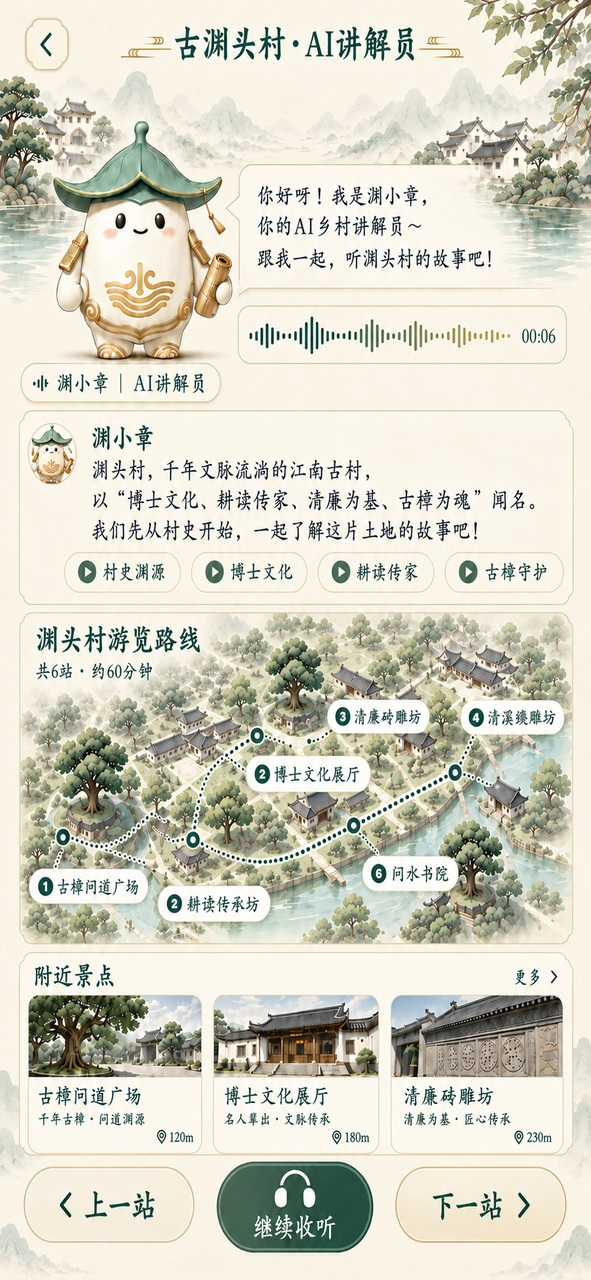
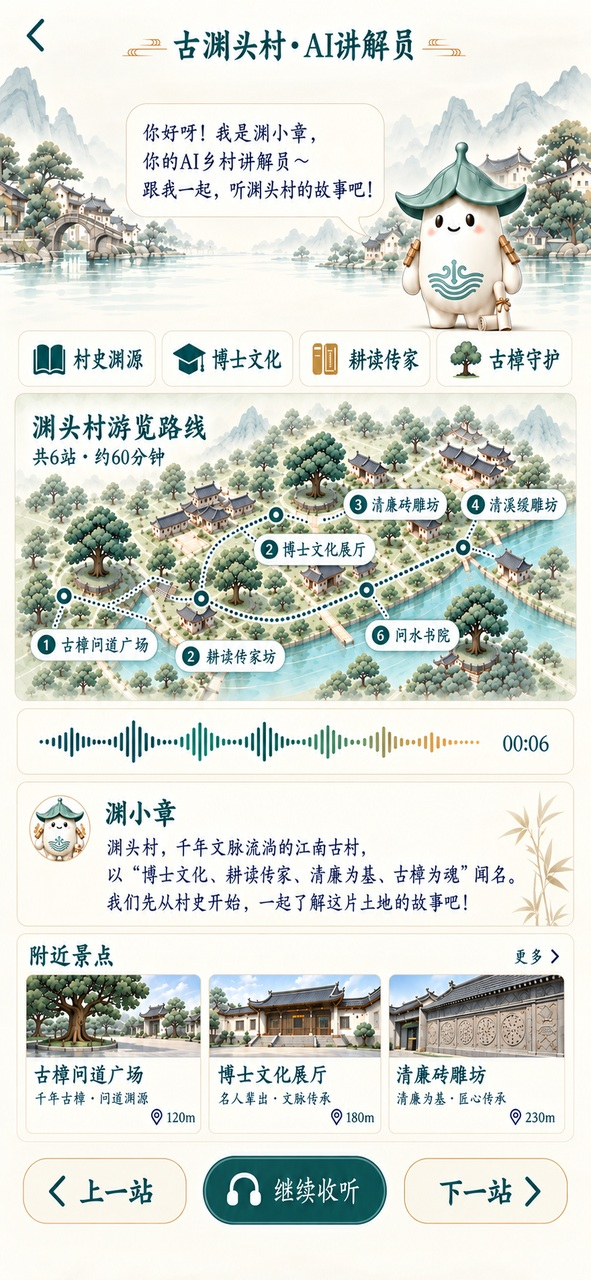
Add guide motion and station interactions

diff --git a/index.html b/index.html
@@ -6,7 +6,7 @@
     <meta name="theme-color" content="#f6f2e9" />
     <meta name="description" content="师说古渊文旅导览小程序首版交互原型" />
     <title>师说古渊</title>
-    <link rel="stylesheet" href="./styles.css?v=flow-8" />
+    <link rel="stylesheet" href="./styles.css?v=flow-9" />
   </head>
   <body>
     <main class="preview-layout">
@@ -14,7 +14,7 @@
         <img
           id="screen-image"
           class="screen-image"
-          src="./assets/login.jpg?v=flow-8"
+          src="./assets/login.jpg?v=flow-9"
           alt="师说古渊登录页"
           draggable="false"
         />
@@ -37,23 +37,23 @@
 
         <div class="hotspot-layer" data-screen-layer="home" aria-label="首页交互区域" hidden>
           <div class="home-landscape-motion" aria-hidden="true"></div>
-          <img class="home-ip home-ip-left" src="./assets/home-motion/ip-left.png?v=flow-8" alt="" aria-hidden="true" />
-          <img class="home-ip home-ip-right" src="./assets/home-motion/ip-right.png?v=flow-8" alt="" aria-hidden="true" />
+          <img class="home-ip home-ip-left" src="./assets/home-motion/ip-left.png?v=flow-9" alt="" aria-hidden="true" />
+          <img class="home-ip home-ip-right" src="./assets/home-motion/ip-right.png?v=flow-9" alt="" aria-hidden="true" />
           <span class="home-wave home-wave-left" aria-hidden="true"></span>
           <span class="home-wave home-wave-right" aria-hidden="true"></span>
-          <img class="home-bamboo" src="./assets/home-motion/bamboo.png?v=flow-8" alt="" aria-hidden="true" />
+          <img class="home-bamboo" src="./assets/home-motion/bamboo.png?v=flow-9" alt="" aria-hidden="true" />
           <div class="home-recommendations" aria-label="今日推荐风景">
-            <span><img src="./assets/home-motion/recommend-1.jpg?v=flow-8" alt="古桥流水" /></span>
-            <span><img src="./assets/home-motion/recommend-2.jpg?v=flow-8" alt="水乡漫游" /></span>
-            <span><img src="./assets/home-motion/recommend-3.jpg?v=flow-8" alt="清廉茶社" /></span>
-            <span><img src="./assets/home-motion/recommend-4.jpg?v=flow-8" alt="博士书房" /></span>
+            <span><img src="./assets/home-motion/recommend-1.jpg?v=flow-9" alt="古桥流水" /></span>
+            <span><img src="./assets/home-motion/recommend-2.jpg?v=flow-9" alt="水乡漫游" /></span>
+            <span><img src="./assets/home-motion/recommend-3.jpg?v=flow-9" alt="清廉茶社" /></span>
+            <span><img src="./assets/home-motion/recommend-4.jpg?v=flow-9" alt="博士书房" /></span>
           </div>
           <div class="home-events-slider" aria-label="近期活动，可左右滑动">
-            <img src="./assets/home-motion/event-1.jpg?v=flow-8" alt="古渊水上集市" />
-            <img src="./assets/home-motion/event-2.jpg?v=flow-8" alt="水稻制作体验" />
-            <img src="./assets/home-motion/event-3.jpg?v=flow-8" alt="清风茶会" />
-            <img src="./assets/home-motion/event-1.jpg?v=flow-8" alt="古渊水上集市加场" />
-            <img src="./assets/home-motion/event-2.jpg?v=flow-8" alt="水稻制作体验加场" />
+            <img src="./assets/home-motion/event-1.jpg?v=flow-9" alt="古渊水上集市" />
+            <img src="./assets/home-motion/event-2.jpg?v=flow-9" alt="水稻制作体验" />
+            <img src="./assets/home-motion/event-3.jpg?v=flow-9" alt="清风茶会" />
+            <img src="./assets/home-motion/event-1.jpg?v=flow-9" alt="古渊水上集市加场" />
+            <img src="./assets/home-motion/event-2.jpg?v=flow-9" alt="水稻制作体验加场" />
           </div>
           <button class="hotspot home-ai-chat" type="button" data-action="ai-guide-1" aria-label="与AI助手对话"></button>
           <button
@@ -67,6 +67,7 @@
         </div>
 
         <div class="hotspot-layer" data-screen-layer="mine" aria-label="我的页面交互区域" hidden>
+          <div class="mine-landscape-motion" aria-hidden="true"></div>
           <button class="hotspot mine-favorites" type="button" data-action="show-favorites" aria-label="查看收藏路线"></button>
           <button class="hotspot mine-ai-history" type="button" data-action="show-ai-history" aria-label="查看AI导览记录"></button>
           <button class="hotspot mine-home-tab" type="button" data-action="home" aria-label="返回首页"></button>
@@ -75,6 +76,15 @@
         </div>
 
         <div class="hotspot-layer" data-screen-layer="culture" aria-label="文化研学线交互区域" hidden>
+          <div class="guide-scenery-motion" aria-hidden="true"></div>
+          <img class="guide-ip guide-ip-top" src="./assets/guide-motion/culture-ip-top.png?v=flow-9" alt="" aria-hidden="true" />
+          <img class="guide-ip guide-ip-bottom" src="./assets/guide-motion/culture-ip-bottom.png?v=flow-9" alt="" aria-hidden="true" />
+          <div class="map-stations map-stations-culture" aria-label="文化研学线地图站点">
+            <button style="--x:8%;--y:78%">1 入口牌坊</button><button style="--x:21%;--y:55%">2 清廉茶社</button><button style="--x:40%;--y:34%">3 水稻工坊</button><button style="--x:57%;--y:12%">4 博士书房</button><button style="--x:67%;--y:29%">5 文创小集</button><button style="--x:58%;--y:65%">7 书卷巷</button><button style="--x:82%;--y:53%">8 叶氏宗祠</button>
+          </div>
+          <div class="guide-stops-slider" aria-label="文化研学线路线站点，可左右滑动">
+            <img src="./assets/guide-motion/culture-stop-1.jpg?v=flow-9" alt="入口牌坊" /><img src="./assets/guide-motion/culture-stop-2.jpg?v=flow-9" alt="清廉茶社" /><img src="./assets/guide-motion/culture-stop-3.jpg?v=flow-9" alt="水稻工坊" /><img src="./assets/guide-motion/culture-stop-4.jpg?v=flow-9" alt="博士书房" /><img src="./assets/guide-motion/culture-stop-2.jpg?v=flow-9" alt="文创小集" /><img src="./assets/guide-motion/culture-stop-3.jpg?v=flow-9" alt="书卷巷" />
+          </div>
           <button
             class="hotspot guide-back"
             type="button"
@@ -104,6 +114,15 @@
         </div>
 
         <div class="hotspot-layer" data-screen-layer="leisure" aria-label="休闲体验线交互区域" hidden>
+          <div class="guide-scenery-motion" aria-hidden="true"></div>
+          <img class="guide-ip guide-ip-top" src="./assets/guide-motion/leisure-ip-top.png?v=flow-9" alt="" aria-hidden="true" />
+          <img class="guide-ip guide-ip-bottom" src="./assets/guide-motion/leisure-ip-bottom.png?v=flow-9" alt="" aria-hidden="true" />
+          <div class="map-stations map-stations-leisure" aria-label="休闲体验线地图站点">
+            <button style="--x:8%;--y:78%">1 入口牌坊</button><button style="--x:21%;--y:55%">2 清廉茶社</button><button style="--x:43%;--y:31%">3 文创集市</button><button style="--x:68%;--y:10%">4 荷塘渔乐区</button>
+          </div>
+          <div class="guide-stops-slider" aria-label="休闲体验线路线站点，可左右滑动">
+            <img src="./assets/guide-motion/leisure-stop-1.jpg?v=flow-9" alt="入口牌坊" /><img src="./assets/guide-motion/leisure-stop-2.jpg?v=flow-9" alt="清廉茶社" /><img src="./assets/guide-motion/leisure-stop-3.jpg?v=flow-9" alt="文创集市" /><img src="./assets/guide-motion/leisure-stop-4.jpg?v=flow-9" alt="荷塘渔乐区" /><img src="./assets/guide-motion/leisure-stop-2.jpg?v=flow-9" alt="茶社体验" />
+          </div>
           <button class="hotspot guide-back" type="button" data-action="home" aria-label="返回首页"></button>
           <button class="hotspot leisure-culture" type="button" data-action="culture" aria-label="切换到文化研学线"></button>
           <button class="hotspot leisure-family" type="button" data-action="family" aria-label="切换到亲子探索线"></button>
@@ -118,6 +137,15 @@
         </div>
 
         <div class="hotspot-layer" data-screen-layer="family" aria-label="亲子探索线交互区域" hidden>
+          <div class="guide-scenery-motion" aria-hidden="true"></div>
+          <img class="guide-ip guide-ip-top" src="./assets/guide-motion/family-ip-top.png?v=flow-9" alt="" aria-hidden="true" />
+          <img class="guide-ip guide-ip-bottom" src="./assets/guide-motion/family-ip-bottom.png?v=flow-9" alt="" aria-hidden="true" />
+          <div class="map-stations map-stations-family" aria-label="亲子探索线地图站点">
+            <button style="--x:8%;--y:78%">1 入口牌坊</button><button style="--x:19%;--y:54%">2 古樟问道广场</button><button style="--x:40%;--y:35%">3 水稻工坊</button><button style="--x:54%;--y:12%">4 非遗手作坊</button><button style="--x:67%;--y:29%">5 亲子自然课堂</button><button style="--x:62%;--y:55%">6 博士书房</button><button style="--x:61%;--y:69%">7 文创小集</button><button style="--x:83%;--y:54%">8 叶氏宗祠</button>
+          </div>
+          <div class="guide-stops-slider" aria-label="亲子探索线路线站点，可左右滑动">
+            <img src="./assets/guide-motion/family-stop-1.jpg?v=flow-9" alt="入口牌坊" /><img src="./assets/guide-motion/family-stop-2.jpg?v=flow-9" alt="古樟问道广场" /><img src="./assets/guide-motion/family-stop-3.jpg?v=flow-9" alt="水稻工坊" /><img src="./assets/guide-motion/family-stop-4.jpg?v=flow-9" alt="非遗手作坊" /><img src="./assets/guide-motion/family-stop-2.jpg?v=flow-9" alt="亲子自然课堂" /><img src="./assets/guide-motion/family-stop-3.jpg?v=flow-9" alt="博士书房" />
+          </div>
           <button class="hotspot guide-back" type="button" data-action="home" aria-label="返回首页"></button>
           <button class="hotspot family-culture" type="button" data-action="culture" aria-label="切换到文化研学线"></button>
           <button class="hotspot family-leisure" type="button" data-action="leisure" aria-label="切换到休闲体验线"></button>
@@ -170,12 +198,12 @@
         <p class="eyebrow">V0.1 交互原型</p>
         <h1>师说古渊</h1>
         <p>使用微信或手机浏览器扫码，即可通过公网体验完整首版流程。</p>
-        <img src="./assets/preview-qr.png?v=flow-8" alt="师说古渊公网预览二维码" />
+        <img src="./assets/preview-qr.png?v=flow-9" alt="师说古渊公网预览二维码" />
         <code>cc-seika.github.io/shishuo-guyuan/</code>
         <p class="hint">勾选协议并登录后，可从首页底部进入“导览”或“我的”，继续体验首版流程。</p>
       </aside>
     </main>
 
-    <script src="./app.js?v=flow-8"></script>
+    <script src="./app.js?v=flow-9"></script>
   </body>
 </html>

diff --git a/styles.css b/styles.css
@@ -161,6 +161,17 @@ button {
   width: 25%;
   height: 4.8%;
   border-radius: 999px;
+  background: url("./assets/home-motion/ai-chat-button.jpg?v=flow-9") center / 100% 100% no-repeat;
+  box-shadow: 0 3px 8px rgba(21, 90, 82, 0.08);
+  transition: transform 220ms ease, box-shadow 220ms ease, filter 220ms ease;
+  transform-origin: center;
+}
+
+.home-ai-chat:hover,
+.home-ai-chat:active {
+  transform: scale(1.045);
+  filter: saturate(1.06);
+  box-shadow: 0 5px 12px rgba(21, 90, 82, 0.16);
 }
 
 .home-landscape-motion {
@@ -377,6 +388,164 @@ button {
   height: 9.6%;
 }
 
+.mine-landscape-motion,
+.guide-scenery-motion {
+  position: absolute;
+  z-index: 1;
+  overflow: hidden;
+  pointer-events: none;
+  mask-image: linear-gradient(to bottom, transparent, #000 24%, #000 80%, transparent);
+}
+
+.mine-landscape-motion {
+  left: 0;
+  top: 0;
+  width: 100%;
+  height: 21%;
+  opacity: 0.32;
+}
+
+.guide-scenery-motion {
+  left: 0;
+  top: 3.5%;
+  width: 100%;
+  height: 18.5%;
+  opacity: 0.34;
+}
+
+.mine-landscape-motion::before,
+.mine-landscape-motion::after,
+.guide-scenery-motion::before,
+.guide-scenery-motion::after {
+  content: "";
+  position: absolute;
+  left: -40%;
+  bottom: 0;
+  width: 180%;
+  height: 58%;
+  background: repeating-radial-gradient(ellipse at center, transparent 0 9px, rgba(255,255,255,.7) 10px 11px, transparent 12px 21px);
+  filter: blur(.6px);
+  animation: guide-flow 11s linear infinite;
+}
+
+.mine-landscape-motion::after,
+.guide-scenery-motion::after {
+  bottom: -20%;
+  opacity: .6;
+  animation-duration: 15s;
+  animation-direction: reverse;
+}
+
+.guide-ip {
+  position: absolute;
+  z-index: 2;
+  pointer-events: none;
+  user-select: none;
+  animation: guide-ip-breathe 4.4s ease-in-out infinite;
+}
+
+.guide-ip-top {
+  left: 69.7%;
+  top: 10%;
+  width: 29.5%;
+  transform-origin: 50% 86%;
+}
+
+.guide-ip-bottom {
+  left: 0;
+  top: 71.9%;
+  width: 26.8%;
+  transform-origin: 44% 91%;
+  animation-delay: .55s;
+}
+
+.map-stations {
+  position: absolute;
+  z-index: 4;
+  left: 2.6%;
+  top: 27.2%;
+  width: 94.8%;
+  height: 31.8%;
+  pointer-events: none;
+}
+
+.map-stations button {
+  position: absolute;
+  left: var(--x);
+  top: var(--y);
+  max-width: 31%;
+  padding: .24rem .5rem;
+  border: 1px solid rgba(21, 100, 91, .16);
+  border-radius: 999px;
+  background: rgba(255, 253, 246, .82);
+  box-shadow: 0 2px 5px rgba(20, 75, 69, .08);
+  color: #125f57;
+  font-family: "STSong", "Songti SC", serif;
+  font-size: clamp(.56rem, 2.4vw, .78rem);
+  font-weight: 700;
+  line-height: 1.15;
+  white-space: nowrap;
+  opacity: 0;
+  transform: translate(-50%, -50%) scale(.94);
+  transform-origin: center;
+  transition: transform 190ms ease, box-shadow 190ms ease, background 190ms ease;
+  pointer-events: auto;
+}
+
+.map-stations button:hover,
+.map-stations button:active,
+.map-stations button:focus-visible {
+  z-index: 2;
+  transform: translate(-50%, -50%) scale(1.075);
+  background: rgba(255, 253, 246, .98);
+  box-shadow: 0 5px 12px rgba(20, 75, 69, .17);
+  outline: none;
+  opacity: 1;
+}
+
+.guide-stops-slider {
+  position: absolute;
+  z-index: 5;
+  left: 7.1%;
+  top: 59.4%;
+  width: 88.4%;
+  height: 12.2%;
+  display: flex;
+  gap: .8%;
+  overflow-x: auto;
+  overflow-y: hidden;
+  background: #f7f4ec;
+  scroll-snap-type: x mandatory;
+  scrollbar-width: none;
+  overscroll-behavior-x: contain;
+  pointer-events: auto;
+  -webkit-overflow-scrolling: touch;
+}
+
+.guide-stops-slider::-webkit-scrollbar { display: none; }
+
+.guide-stops-slider img {
+  width: 29.5%;
+  height: 100%;
+  flex: 0 0 29.5%;
+  object-fit: cover;
+  border-radius: 7px;
+  scroll-snap-align: start;
+  user-select: none;
+  -webkit-user-drag: none;
+}
+
+@keyframes guide-flow {
+  from { transform: translateX(-6%); }
+  to { transform: translateX(18%); }
+}
+
+@keyframes guide-ip-breathe {
+  0%, 100% { transform: rotate(-.7deg) translateY(0); }
+  48% { transform: rotate(1.1deg) translateY(-1.3%); }
+  60% { transform: rotate(.4deg) translateY(-.6%); }
+}
+
 .guide-back {
   left: 1.6%;
   top: 0.9%;
@@ -444,11 +613,11 @@ button {
 .guide-favorite::before {
   content: "★";
   position: absolute;
-  left: 11%;
+  left: 11.5%;
   top: 36%;
-  transform: translateY(-50%) scale(0.78);
+  transform: translateY(-50%) scale(0.72);
   color: transparent;
-  font-size: clamp(1.18rem, 5.2vw, 1.85rem);
+  font-size: clamp(.92rem, 4.1vw, 1.38rem);
   line-height: 1;
   transition: color 160ms ease, transform 160ms ease;
 }
@@ -761,7 +930,12 @@ button {
   .home-landscape-motion::after,
   .home-ip,
   .home-wave,
-  .home-bamboo {
+  .home-bamboo,
+  .mine-landscape-motion::before,
+  .mine-landscape-motion::after,
+  .guide-scenery-motion::before,
+  .guide-scenery-motion::after,
+  .guide-ip {
     animation: none;
   }
 }

diff --git a/app.js b/app.js
@@ -1,41 +1,41 @@
 const screens = {
   login: {
-    src: "./assets/login.jpg?v=flow-8",
+    src: "./assets/login.jpg?v=flow-9",
     alt: "师说古渊登录页",
     title: "登录｜师说古渊",
   },
   home: {
-    src: "./assets/home.jpg?v=flow-8",
+    src: "./assets/home.jpg?v=flow-9",
     alt: "师说古渊首页",
     title: "师说古渊",
   },
   culture: {
-    src: "./assets/guide-culture.jpg?v=flow-8",
+    src: "./assets/guide-culture.jpg?v=flow-9",
     alt: "师说古渊文化研学线导览页",
     title: "文化研学线｜师说古渊",
   },
   leisure: {
-    src: "./assets/guide-leisure.jpg?v=flow-8",
+    src: "./assets/guide-leisure.jpg?v=flow-9",
     alt: "师说古渊休闲体验线导览页",
     title: "休闲体验线｜师说古渊",
   },
   mine: {
-    src: "./assets/mine.jpg?v=flow-8",
+    src: "./assets/mine.jpg?v=flow-9",
     alt: "师说古渊我的页面",
     title: "我的｜师说古渊",
   },
   family: {
-    src: "./assets/guide-family.jpg?v=flow-8",
+    src: "./assets/guide-family.jpg?v=flow-9",
     alt: "师说古渊亲子探索线导览页",
     title: "亲子探索线｜师说古渊",
   },
   "ai-guide-1": {
-    src: "./assets/ai-guide-1.jpg?v=flow-8",
+    src: "./assets/ai-guide-1.jpg?v=flow-9",
     alt: "古渊头村AI讲解员第一页",
     title: "AI讲解员｜师说古渊",
   },
   "ai-guide-2": {
-    src: "./assets/ai-guide-2.jpg?v=flow-8",
+    src: "./assets/ai-guide-2.jpg?v=flow-9",
     alt: "古渊头村AI讲解员第二页",
     title: "AI讲解员下一站｜师说古渊",
   },
